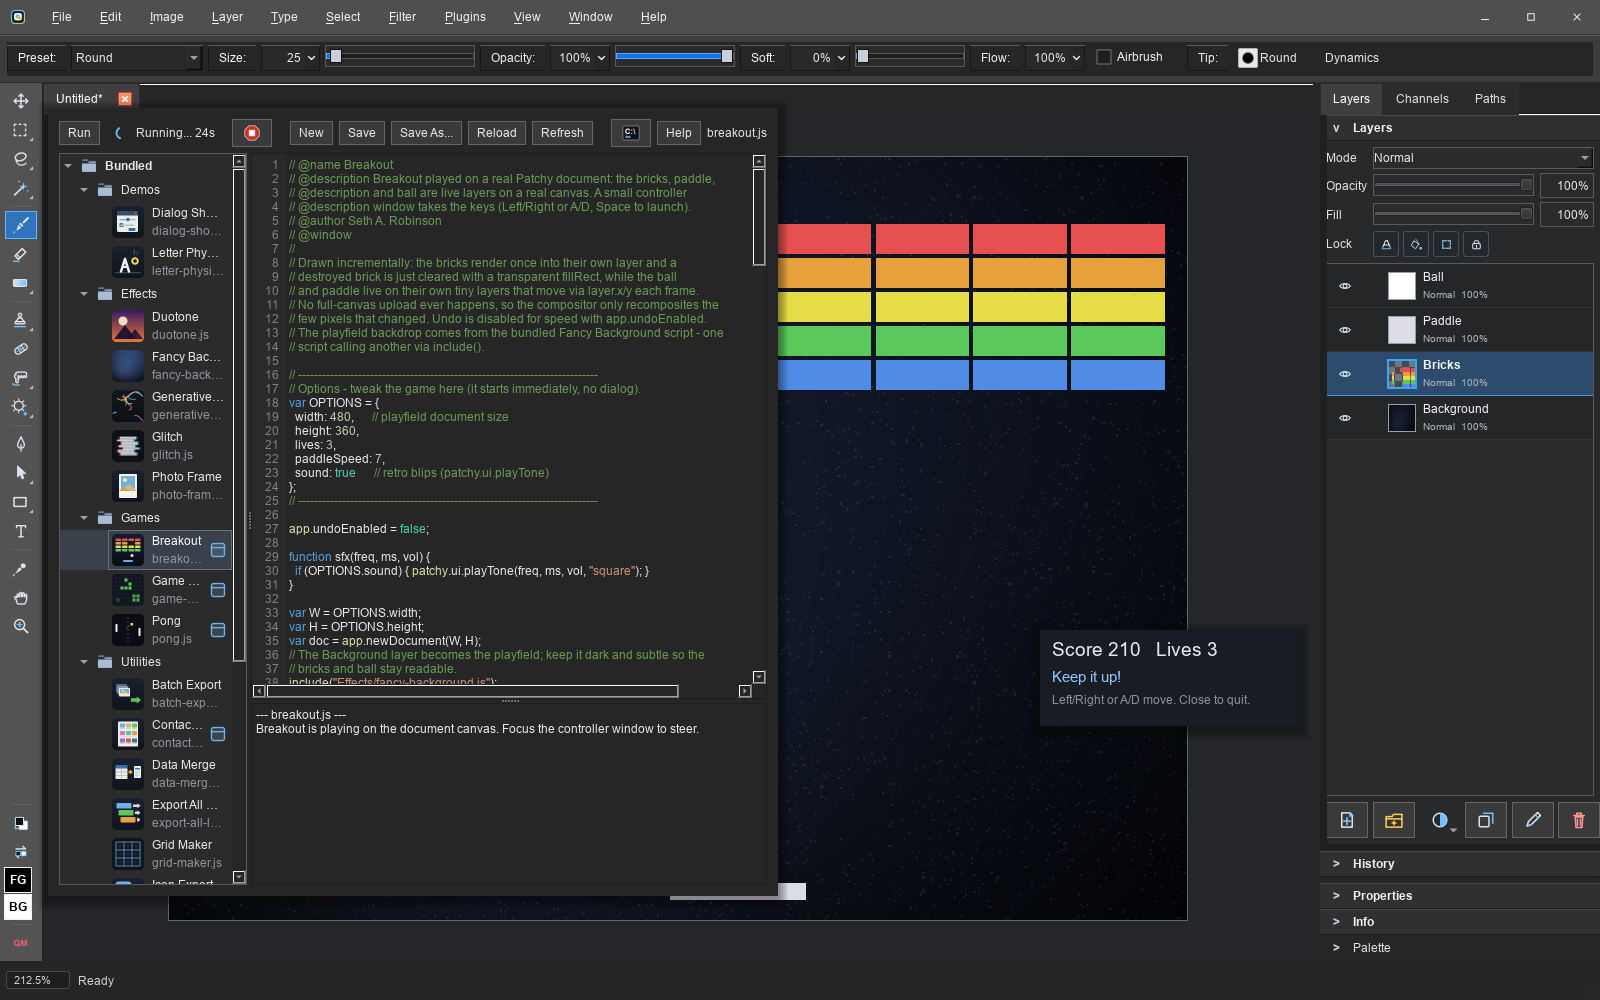
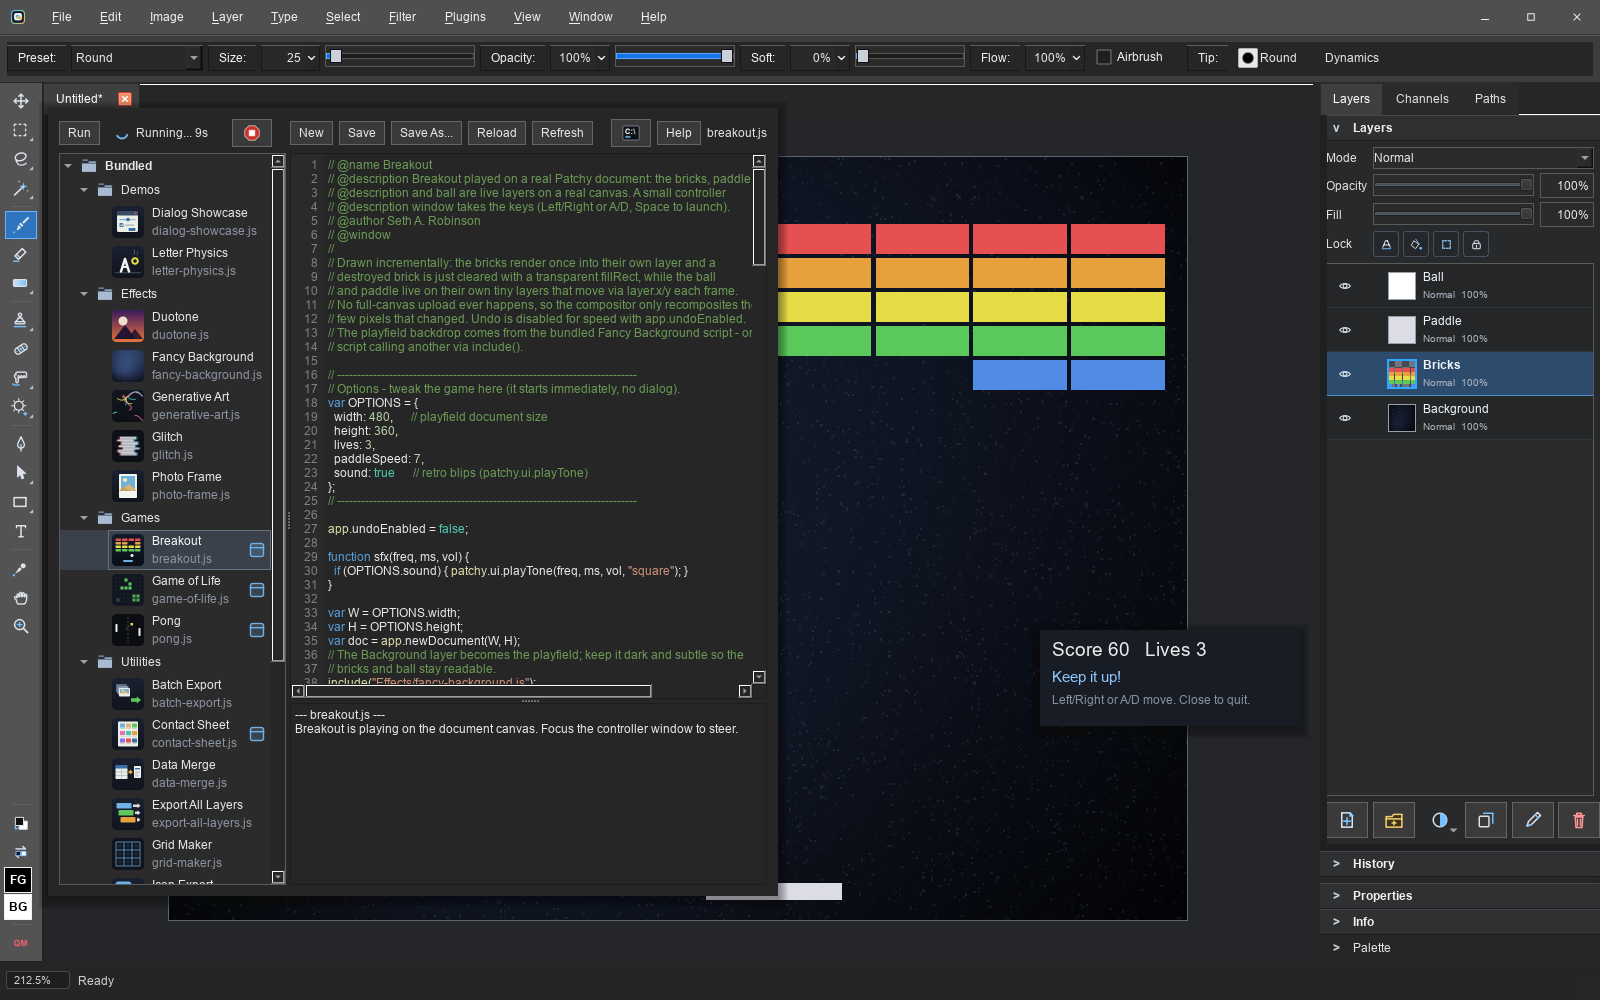
Widen the Script Manager tree pane so bundled script names show unelided

diff --git a/src/ui/script_editor_dialog.cpp b/src/ui/script_editor_dialog.cpp
@@ -452,7 +452,7 @@ ScriptEditorDialog::ScriptEditorDialog(MainWindow& window, ScriptEngineHost& hos
     : QDialog(&window), window_(window), host_(host) {
   setObjectName(QStringLiteral("scriptEditorDialog"));
   setWindowTitle(tr("Script Manager"));
-  resize(900, 620);
+  resize(960, 620);
 
   auto* root = new QVBoxLayout(this);
 
@@ -552,7 +552,9 @@ ScriptEditorDialog::ScriptEditorDialog(MainWindow& window, ScriptEngineHost& hos
   horizontal->setStretchFactor(1, 4);
   // Two-line rows want more than the stretch-factor default (~180px) so
   // display names survive without eliding.
-  horizontal->setSizes({240, 660});
+  // Wide enough that the two-line rows (name over filename, plus the modified
+  // tag and window badge) show typical bundled-script names without eliding.
+  horizontal->setSizes({310, 650});
   root->addWidget(horizontal, 1);
 
   connect(run_button_, &QPushButton::clicked, this, [this] { run_current(); });